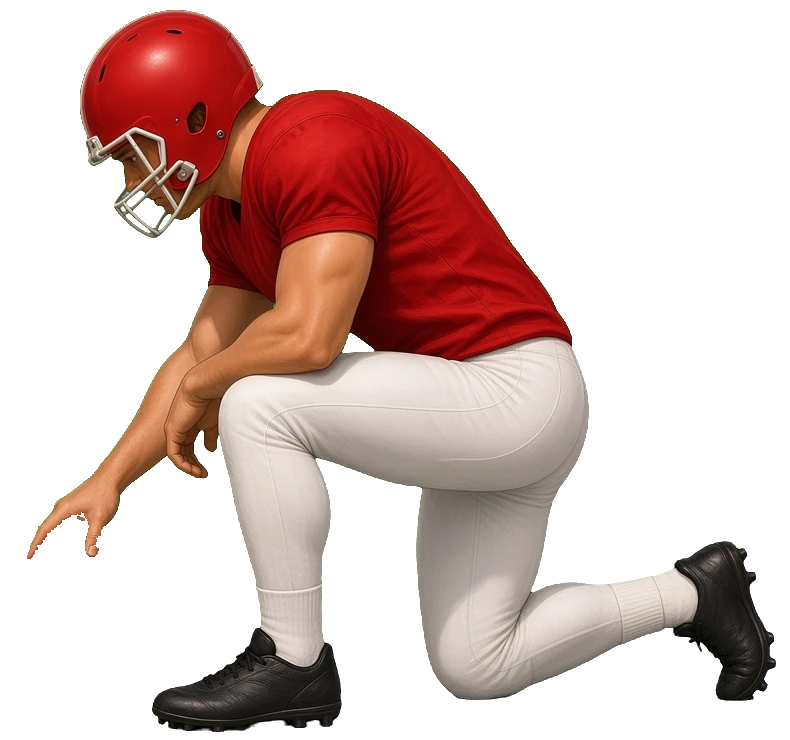
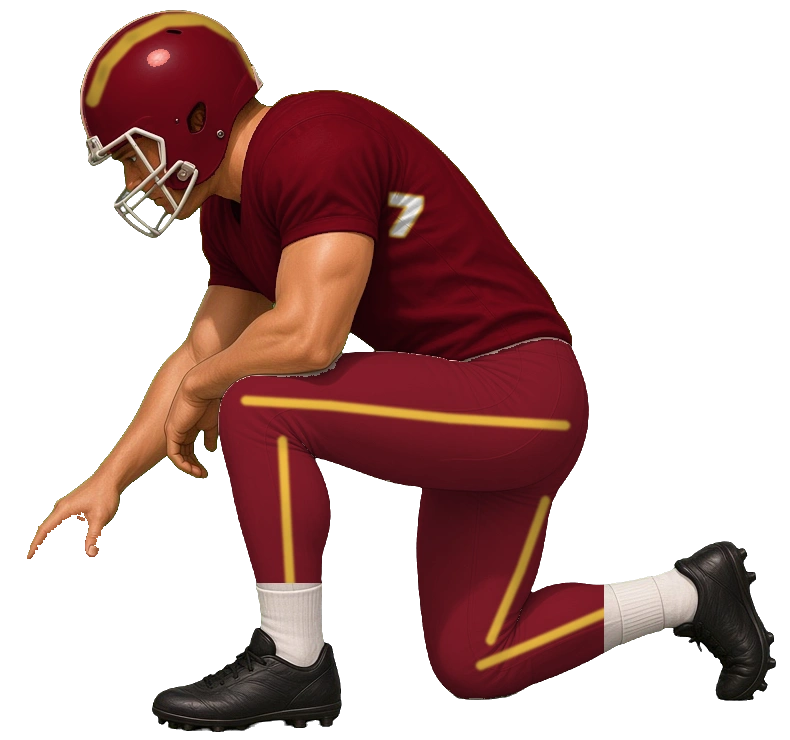
S2: 11 approved panels; smoking field restored; smooth gold kicker trim; Wes in matching Hawks uniform #7

Changed region(s): [[0.0911, 0.0, 0.7899, 0.9635]]

diff --git a/story1.js b/story1.js
@@ -12,7 +12,7 @@ const RNICK={tap:'Two-Tap',sock:'Socks',seat:'Seat Check',line:'Whisper'},NK=()=
 const N=t=>t.replace(/\{n\}/g,S.name||'Kid').replace(/\{nick\}/g,NK()).replace(/\{tip\}/g,(S.fl&&S.fl.tip)||'You don\'t. You just kick the next one.').replace(/\{why\}/g,(S.fl&&S.fl.why)||'For Rae. Every Friday.');
 // ---------------- SEASON 1 CONTENT ----------------
 const BG={dark:'#000',dawn:'linear-gradient(#1b2338,#4a3b52 60%,#a8705a)',yard:'linear-gradient(#2a3b5a,#5b6f7a 55%,#2f4a2a)',garage:'linear-gradient(#2a1d14,#4a3424 60%,#1d140e)',field:'linear-gradient(#0b1a33,#12305a 50%,#1d6a34)',night:'linear-gradient(#050a18,#0f1f3d 55%,#155a2c)',hosp:'linear-gradient(#0f2a2e,#1c4a4f 60%,#0c1c1f)',fog:'linear-gradient(#6b7378,#9aa3a8 55%,#3d5a40)',kitchen:'linear-gradient(#2b2117,#4d3b26 60%,#1a130c)',porch:'linear-gradient(#0d1426,#24304d 60%,#3a2d1f)'};
-const IMG=id=>'story/'+id+'.webp'+({c2:'?v=2',c4:'?v=2',c6:'?v=3',jq:'?v=3',jugwin:'?v=1'}[id]||''),PIC={tx1:'tx1',tx2:'tx2',c1:'c1',c2:'c2',jq:'jq',c3:'c3',c4:'c4',c5:'c5',c6:'c6',c7:'c7',c8:'c8',c9:'c9',c10:'c10',c11:'c11',c12:'c12',c13:'c13',c14w:'c14w',c14l:'c14l',c15:'c15',c16:'c16'};
+const IMG=id=>'story/'+id+'.webp'+({c2:'?v=2',c4:'?v=2',c6:'?v=3',jq:'?v=3',jugwin:'?v=1',s2c1:'?v=1792620000',s2c13l:'?v=1792620000',s2c14:'?v=1792620000',s2c16:'?v=1792620000',s2c17:'?v=1792620000',s2tx1:'?v=1792620000',s2tx2:'?v=1792620000',s2wk2:'?v=1792620000',s2wk3:'?v=1792620000',s2wk5:'?v=1792620000',s2field:'?v=1792620000'}[id]||''),PIC={tx1:'tx1',tx2:'tx2',c1:'c1',c2:'c2',jq:'jq',c3:'c3',c4:'c4',c5:'c5',c6:'c6',c7:'c7',c8:'c8',c9:'c9',c10:'c10',c11:'c11',c12:'c12',c13:'c13',c14w:'c14w',c14l:'c14l',c15:'c15',c16:'c16'};
 // panels that exist on disk; add an id here when its art lands (see story/ART-REDO.md). Avoids 404s.
 const ART=new Set(['c1','c2','c3','c4','c5','c6','c7','c8','c9','c10','c11','c12','c13','c14w','c14l','c15','c16','field','end','jq','wk1','wk2','wk3','wk4','wk5','tx1','tx2','jugwin']);
 const pic=(id,cls)=>!ART.has(id)?'':'<div class="pic '+(cls||'')+'"><img src="'+IMG(id)+'" alt="" onerror="this.remove()"></div>';
@@ -123,7 +123,7 @@ Object.assign(SC,{
 Object.assign(MOOD,{s2c1:'sad',s2c2:'home',s2c3:'home',s2c4:'tense',s2c5:'hopeful',s2c6:'hopeful',s2tx1:'home',s2c7:'mystery',s2c8:'hopeful',s2c9:'home',s2c10:'mystery',s2tx2:'home',s2c11:'rival',s2c12:'tense',s2c13w:'triumph',s2c13l:'sad',s2c14:'home',s2c15:'sad',s2c16:'sad',s2c17:'mystery',s2end:'mystery',s2w0:'tense',s2w1:'tense',s2w2:'tense',s2w3:'rival',s2w4:'rival'});
 ['s2c1','s2c2','s2c3','s2c4','s2c5','s2c6','s2tx1','s2c7','s2c8','s2c9','s2c10','s2tx2','s2c11','s2c12','s2c13w','s2c13l','s2c14','s2c15','s2c16','s2c17'].forEach(k=>PIC[k]=k);
 // S2 panels on disk today (add an id when its approved art lands)
-['s2c2','s2c3','s2c4','s2c5','s2c6','s2c7','s2c8','s2c9','s2c10','s2c11','s2c12','s2c13w','s2c15','s2wk1','s2wk4','s2end'].forEach(k=>ART.add(k));
+['s2c2','s2c3','s2c4','s2c5','s2c6','s2c7','s2c8','s2c9','s2c10','s2c11','s2c12','s2c13w','s2c15','s2wk1','s2wk4','s2end','s2c1','s2c13l','s2c14','s2c16','s2c17','s2tx1','s2tx2','s2wk2','s2wk3','s2wk5','s2field'].forEach(k=>ART.add(k));
 // HS kicks: every one 38 yds or less (pw 0.45 tier floors power so each stays makeable)
 const WK2=[
  {n:'Week 1 · Friday Night',opp:'Mill Valley Millers',home:1,intro:'Half of the Millers\' dads worked at the same mill. Nobody in either bleacher is cheering very loud.',k:[[28,'1st quarter · first kick as captain'],[34,'2nd quarter · 0:06 · tied 10-10'],[22,'4th quarter · extra point after the go-ahead TD']],need:2,win:'Hawks win 17-13!',loss:'Millers win 16-13.',go:'s2c6'},
@@ -271,9 +271,8 @@ const ST={kick:null};
 const oR=S3.onResult;S3.onResult=function(good){const r=oR.apply(this,arguments);try{if(mode==='story'&&ST.kick){lives=3;prevLives=3;const j=ST.kick.jug;ST.kick=null;ST.tb=0;setTimeout(()=>j&&JG?jugAfter(!!good):after(!!good),1700)}}catch(e){}return r};
 const odb=drawBall;drawBall=function(){const r=odb.apply(this,arguments);try{if(state==='play'&&mode==='story'&&(ST.kick||ball.fly)){ctx.save();ctx.fillStyle='rgba(0,0,0,.55)';const w=210,x=W/2-w/2,y=H*0.2;ctx.beginPath();ctx.roundRect(x,y,w,26,12);ctx.fill();ctx.strokeStyle=GOLD;ctx.lineWidth=1.5;ctx.stroke();ctx.fillStyle=GOLD;ctx.font='900 12px system-ui';ctx.textAlign='center';ctx.fillText(JG?'📖 STORY · KICK THE JUG '+Math.min(3,JG.streak+1)+'/3':'📖 STORY · '+(K?WK[K.w].opp.split(' ').slice(-1)[0].toUpperCase()+' · ':'')+'KICK '+(ST.kick?ST.kick.lab:''),W/2,y+17,w-10);ctx.restore()}}catch(e){}return r};
 // ---------- Hollow Creek field: Friday night lights + small bleachers (story kicks only) ----------
-const HC1=new Image();if(ART.has('field'))HC1.src=IMG('field');const HC2=new Image();HC2.src='story/field_s2.webp?v=1792610000';// S2: same field, mill closed (smoke painted out)
-let HC=HC1;const SKY=()=>state==='play'&&mode==='story';
-const oBG=drawBG;drawBG=function(){HC=(SEA===2&&HC2.complete&&HC2.naturalWidth)?HC2:HC1;const r=oBG.apply(this,arguments);try{if(SKY()&&!JG&&(!K||WK[K.w].home)&&HC.complete&&HC.naturalWidth){const b=GP(0,0,dist+0.2),hz=(window.EZ||(b&&b.y)||H*0.42)-((window.SCL||1)*7);
+const HC1=new Image();if(ART.has('field'))HC1.src=IMG('field');const HC=HC1;const SKY=()=>state==='play'&&mode==='story';
+const oBG=drawBG;drawBG=function(){const r=oBG.apply(this,arguments);try{if(SKY()&&!JG&&(!K||WK[K.w].home)&&HC.complete&&HC.naturalWidth){const b=GP(0,0,dist+0.2),hz=(window.EZ||(b&&b.y)||H*0.42)-((window.SCL||1)*7);
  // painted backdrop above the end line: sky, mill chimneys, water tower, light tower and the little home bleachers
  const iw=HC.naturalWidth,ih=HC.naturalHeight,sy=ih*0.53,sc=Math.max(W/iw,hz/sy);ctx.save();ctx.beginPath();ctx.rect(0,0,W,hz);ctx.clip();ctx.drawImage(HC,0,0,iw,sy,W/2-iw*sc/2,hz-sy*sc,iw*sc,sy*sc);
  const g=ctx.createLinearGradient(0,hz-40,0,hz);g.addColorStop(0,'rgba(10,40,20,0)');g.addColorStop(1,'rgba(10,40,20,.55)');ctx.fillStyle=g;ctx.fillRect(0,hz-40,W,40);
@@ -375,7 +374,7 @@ function noHair(s,ti){if(MK.on||!LONGHAIR.has(ti)||!NHI.complete||!NHI.naturalWi
  const d=x.getImageData(0,0,812,300),a=d.data,P2=NHI.__d,o=ti*300*812*4;for(let i=0;i<a.length;i+=4){const q=o+i;if(P2[q+3]<128)continue;if(P2[q]<20&&P2[q+1]>230&&P2[q+2]<20){a[i+3]=0;continue}
  a[i]=P2[q];a[i+1]=P2[q+1];a[i+2]=P2[q+2];a[i+3]=Math.min(255,(P2[q+3]-128)*2)}/* retouched neck: rgb + feathered alpha */x.putImageData(d,0,0);c.__s=s;return NHC[ti]=c}
 // Story kicker: a short-hair row of kickers.webp (row 1) recoloured to Hawks maroon/gold; same 4 frames, size and timing (story only)
-const SKI=new Image();SKI.src='story/kicker_story.webp?v=1792610000';let SKC=null;
+const SKI=new Image();SKI.src='story/kicker_story.webp?v=1792621000';let SKC=null;
 {const ok=S5.kimg;S5.kimg=function(ti,p2){const s=ok.apply(this,arguments);try{if(isStory()&&!p2&&!(MK.on&&MK.masc>=0)&&s&&s.width===812){if(SKI.complete&&SKI.naturalWidth){if(!SKC){SKC=document.createElement('canvas');SKC.width=812;SKC.height=300;SKC.getContext('2d').drawImage(SKI,0,0)}return SKC}return hawkify(s,ti)}}catch(e){}return s}}
 // ---- Hawks mascot on our sideline: the game's hawk mascot, tinted Hollow Creek red ----
 const HAWKS_T=Math.max(0,TEAMS.findIndex(t=>t.k==='hawks'));
@@ -403,7 +402,7 @@ function yard(){const hz=hz0();ctx.save();
  const g=ctx.createLinearGradient(0,0,0,hz);g.addColorStop(0,'#3a4c6e');g.addColorStop(0.55,'#c99a78');g.addColorStop(1,'#e9c79a');ctx.fillStyle=g;ctx.fillRect(0,0,W,hz);
  // mill chimneys with smoke, far away in the haze
  ctx.fillStyle='rgba(84,90,98,.85)';[[0.66,0.58],[0.72,0.54]].forEach(([u,t])=>{ctx.fillRect(W*u,hz*t,W*0.022,hz*(1-t))});
- ctx.fillStyle='rgba(200,200,205,.35)';if(SEA!==2)for(let i=0;i<7;i++){ctx.beginPath();ctx.arc(W*0.735+i*W*0.035,hz*0.5-i*hz*0.025,6+i*3,0,7);ctx.fill()}
+ ctx.fillStyle='rgba(200,200,205,.35)';for(let i=0;i<7;i++){ctx.beginPath();ctx.arc(W*0.735+i*W*0.035,hz*0.5-i*hz*0.025,6+i*3,0,7);ctx.fill()}
  ctx.fillStyle='rgba(120,128,130,.7)';ctx.fillRect(0,hz*0.8,W,hz*0.2);// far rooftops
  ctx.fillStyle='rgba(225,215,200,.45)';ctx.fillRect(0,hz*0.72,W,hz*0.28);// morning fog
  // wooden backyard fence
@@ -493,7 +492,7 @@ function drawHolder(p,r){const u=r*0.6;ctx.save();ctx.lineCap='round';ctx.lineJo
  ctx.fillStyle='#2a2a2a';ctx.beginPath();ctx.arc(hdx-u*0.1,hdy+u*0.3,u*0.18,0,7);ctx.fill();// ear hole
  ctx.restore();return tip}
 // painted holder sprite (Wes): ball centre in sprite at (69.2,611.5), ball height 183.4px
-const HIMG={b:new Image(),h:new Image()};HIMG.b.src='story/holder_s2.webp?v=1792600000';HIMG.h.src='story/holder_s2_hand.webp?v=1792600000';
+const HIMG={b:new Image(),h:new Image()};HIMG.b.src='story/holder_s2.webp?v=1792620000';HIMG.h.src='story/holder_s2_hand.webp?v=1792620000';
 function hImg(im,p){const k=2*p.r/183.4;ctx.drawImage(im,p.x-69.2*k,p.y-611.5*k,im.naturalWidth*k,im.naturalHeight*k)}
 const HOLD=()=>isStory()&&SEA===2&&!JG;let HP=null;
 const odb5=drawBall;drawBall=function(){if(!HOLD())return odb5.apply(this,arguments);let p=null;try{p=SP(ball.x,ball.y,ball.z)}catch(e){}

diff --git a/index.html b/index.html
@@ -25,4 +25,4 @@
 <script src="s31.js?v=1792273000"></script>
 <script src="s32.js?v=1792273000"></script>
 <script src="s33.js"></script>
-<script src="s34.js?v=1792273000"></script><script src="s35.js?v=1792273000"></script><script src="s36.js?v=1792273000"></script><script src="s37.js?v=1792273000"></script><script src="i18n_es.js?v=1792288000"></script><script src="s38.js?v=1792275000"></script><script src="s39.js?v=1792273000"></script><script src="s40.js?v=1792273000"></script><script src="s41.js?v=1792273000"></script><script src="s42.js?v=1792273000"></script><script src="s43.js?v=1792273000"></script><script src="s44.js?v=1792273000"></script><script src="s45.js?v=1792273000"></script><script src="s46.js?v=1792279000"></script><script src="s47.js?v=1792273000"></script><script src="s48.js?v=1792273000"></script><script src="s49.js?v=1792288000"></script><script src="s50.js?v=1792273000"></script><script src="s51.js?v=1792273000"></script><script src="s52.js?v=1792273000"></script><script src="s53.js?v=1792273000"></script><script src="s54.js?v=1792273000"></script><script src="s55.js?v=1792273000"></script><script src="s56.js?v=1792273000"></script><script src="s57.js?v=1792273000"></script><script src="s58.js?v=1792273000"></script><script src="s59.js?v=1792273000"></script><script src="s60.js?v=1792273000"></script><script src="s61.js?v=1792273000"></script><script src="s62.js?v=1792278100"></script><script src="s63.js?v=1792273000"></script><script src="s64.js?v=1792273000"></script><script src="s65a.js?v=1792273000"></script><script src="s65.js?v=1792273000"></script><script src="s66.js?v=1792273000"></script><script src="s67.js?v=1792283000"></script><script src="s68.js?v=1792273000"></script><script src="s69.js?v=1792273000"></script><script src="s70.js?v=1792273000"></script><script src="s71.js?v=1792278000"></script><script src="s72.js?v=1792273000"></script><script src="s73.js?v=1792273000"></script><script src="s74.js?v=1792273000"></script><script src="s75.js?v=1792273000"></script><script src="s76.js?v=1792273000"></script><script src="s77.js?v=1792273000"></script><script src="s78.js?v=1792273000"></script><script src="s79.js?v=1792275000"></script><script src="s80.js?v=1792273000"></script><script src="s81.js?v=1792273000"></script><script src="s82.js?v=1792273000"></script><script src="s83.js?v=1792273000"></script><script src="s84.js?v=1792273000"></script><script src="s85.js?v=1792273000"></script><script src="s86.js?v=1792273100"></script><script src="s87.js?v=1792273000"></script><script src="s88.js?v=1792278000"></script><script src="s89.js?v=1792274000"></script><script src="story-kid.js?v=1792340000"></script><script src="story1.js?v=1792610000"></script><script src="s90.js?v=1792274000"></script><script src="s91.js?v=1792275000"></script><script src="s92.js?v=1792282000"></script><script src="s93.js?v=1792277100"></script><script src="s94.js?v=1792285000"></script><script src="s95.js?v=1792278100"></script><script src="s96.js?v=1792279100"></script><script src="s97.js?v=1792280100"></script><script src="s98.js?v=1792281100"></script><script src="s99.js?v=1792282100"></script><script src="s100.js?v=1792282100"></script><script src="s101.js?v=1792283100"></script><script src="s102.js?v=1792285100"></script><script src="s103.js?v=1792285100"></script><script src="s104.js?v=1792285100"></script><script src="s105.js?v=1792286000"></script><script src="s106.js?v=1792287000"></script><script src="s107.js?v=1792287000"></script><script src="s108.js?v=1792288000"></script><script src="s109.js?v=1792310000"></script></body></html>
+<script src="s34.js?v=1792273000"></script><script src="s35.js?v=1792273000"></script><script src="s36.js?v=1792273000"></script><script src="s37.js?v=1792273000"></script><script src="i18n_es.js?v=1792288000"></script><script src="s38.js?v=1792275000"></script><script src="s39.js?v=1792273000"></script><script src="s40.js?v=1792273000"></script><script src="s41.js?v=1792273000"></script><script src="s42.js?v=1792273000"></script><script src="s43.js?v=1792273000"></script><script src="s44.js?v=1792273000"></script><script src="s45.js?v=1792273000"></script><script src="s46.js?v=1792279000"></script><script src="s47.js?v=1792273000"></script><script src="s48.js?v=1792273000"></script><script src="s49.js?v=1792288000"></script><script src="s50.js?v=1792273000"></script><script src="s51.js?v=1792273000"></script><script src="s52.js?v=1792273000"></script><script src="s53.js?v=1792273000"></script><script src="s54.js?v=1792273000"></script><script src="s55.js?v=1792273000"></script><script src="s56.js?v=1792273000"></script><script src="s57.js?v=1792273000"></script><script src="s58.js?v=1792273000"></script><script src="s59.js?v=1792273000"></script><script src="s60.js?v=1792273000"></script><script src="s61.js?v=1792273000"></script><script src="s62.js?v=1792278100"></script><script src="s63.js?v=1792273000"></script><script src="s64.js?v=1792273000"></script><script src="s65a.js?v=1792273000"></script><script src="s65.js?v=1792273000"></script><script src="s66.js?v=1792273000"></script><script src="s67.js?v=1792283000"></script><script src="s68.js?v=1792273000"></script><script src="s69.js?v=1792273000"></script><script src="s70.js?v=1792273000"></script><script src="s71.js?v=1792278000"></script><script src="s72.js?v=1792273000"></script><script src="s73.js?v=1792273000"></script><script src="s74.js?v=1792273000"></script><script src="s75.js?v=1792273000"></script><script src="s76.js?v=1792273000"></script><script src="s77.js?v=1792273000"></script><script src="s78.js?v=1792273000"></script><script src="s79.js?v=1792275000"></script><script src="s80.js?v=1792273000"></script><script src="s81.js?v=1792273000"></script><script src="s82.js?v=1792273000"></script><script src="s83.js?v=1792273000"></script><script src="s84.js?v=1792273000"></script><script src="s85.js?v=1792273000"></script><script src="s86.js?v=1792273100"></script><script src="s87.js?v=1792273000"></script><script src="s88.js?v=1792278000"></script><script src="s89.js?v=1792274000"></script><script src="story-kid.js?v=1792340000"></script><script src="story1.js?v=1792621000"></script><script src="s90.js?v=1792274000"></script><script src="s91.js?v=1792275000"></script><script src="s92.js?v=1792282000"></script><script src="s93.js?v=1792277100"></script><script src="s94.js?v=1792285000"></script><script src="s95.js?v=1792278100"></script><script src="s96.js?v=1792279100"></script><script src="s97.js?v=1792280100"></script><script src="s98.js?v=1792281100"></script><script src="s99.js?v=1792282100"></script><script src="s100.js?v=1792282100"></script><script src="s101.js?v=1792283100"></script><script src="s102.js?v=1792285100"></script><script src="s103.js?v=1792285100"></script><script src="s104.js?v=1792285100"></script><script src="s105.js?v=1792286000"></script><script src="s106.js?v=1792287000"></script><script src="s107.js?v=1792287000"></script><script src="s108.js?v=1792288000"></script><script src="s109.js?v=1792310000"></script></body></html>
